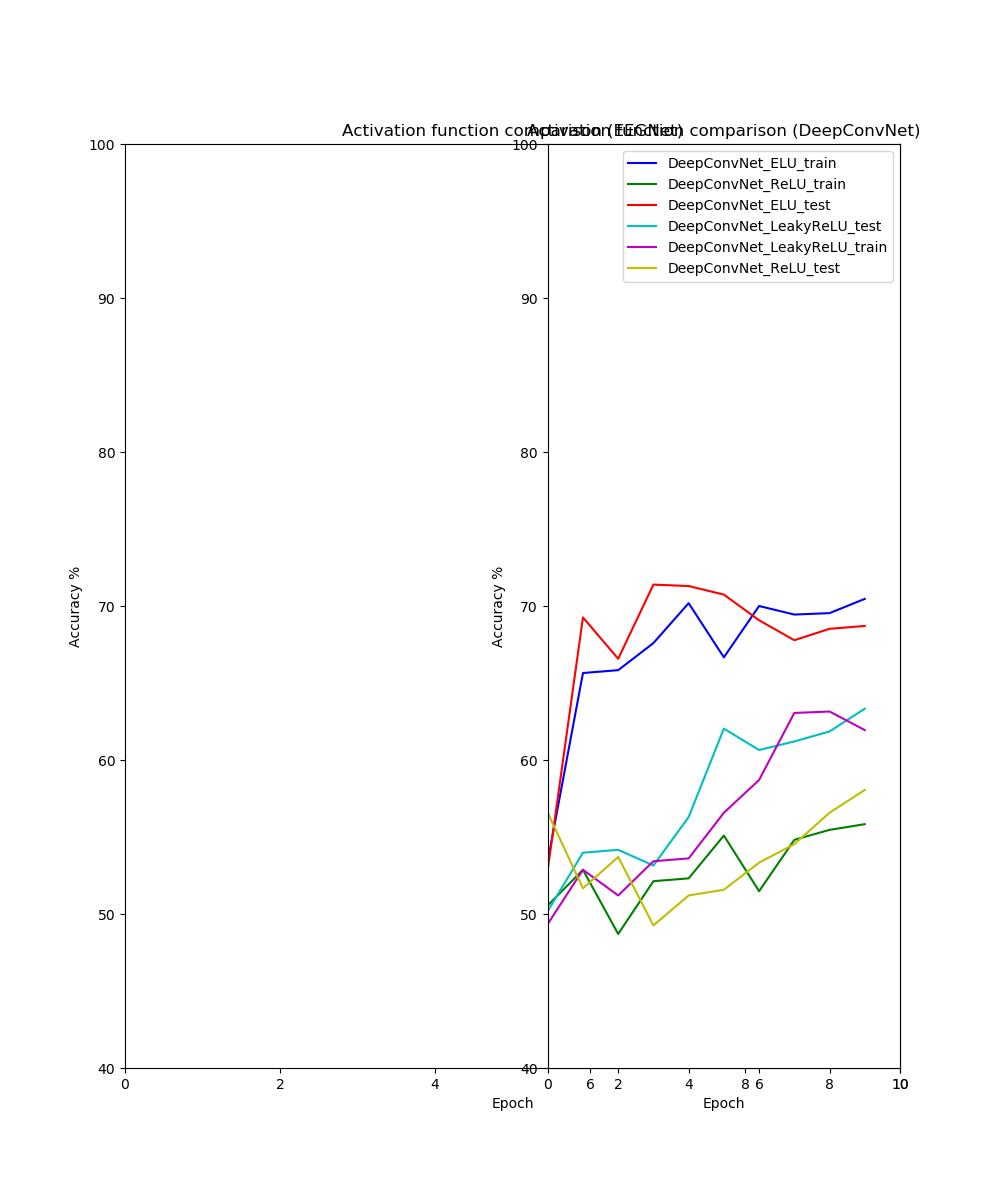
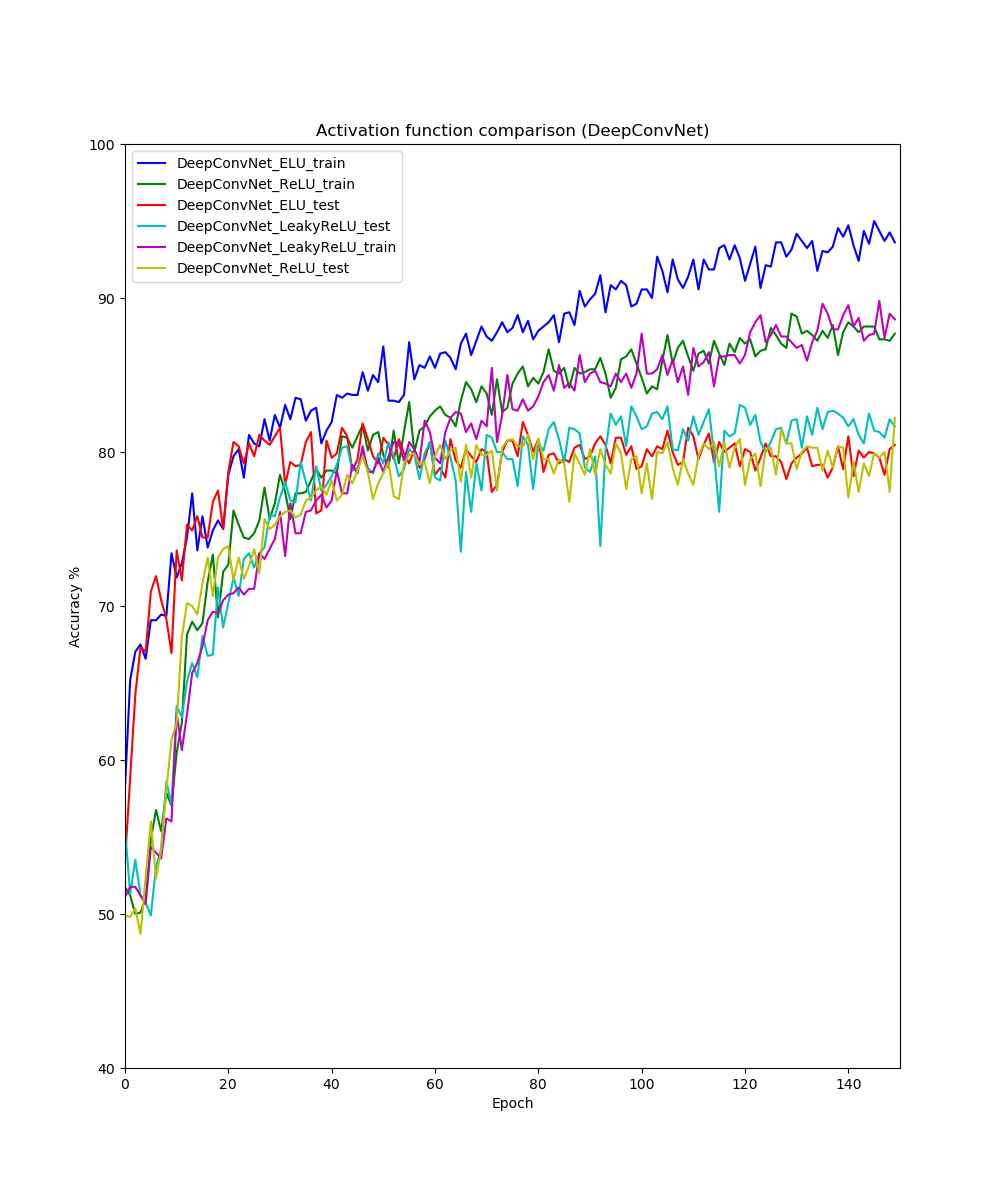
update NCTU2 all

diff --git a/NCTU2/plot.py b/NCTU2/plot.py
@@ -7,13 +7,16 @@ import os
 
 def PlotComp(path, model_name,epoch,figure):
     color = ['b-','g-','r-','c-','m-','y-']
+    #figure = plt.axes()
     for dirPath, dirNames, fileNames in os.walk(path):
         os.chdir(path)
         index_color = 0
         for file in fileNames:
             if file == '.DS_Store':
                 continue
-            with open(file, newline='') as csvFile:
+            if '.png' in file:
+                continue
+            with open(file, encoding="utf8", errors='ignore', newline='') as csvFile:
                 #lines = len(open(file) .readlines()) 
                 label = file.replace('.csv','')
                 data = np.zeros((epoch,2))
@@ -35,19 +38,3 @@ def PlotComp(path, model_name,epoch,figure):
         plt.legend()
 
 
-PlotComp('./EEGNet', 'EEGNet',10)
-
-fig1 = plt.figure(figsize=(10,12))
-os.chdir(Criteria['current_path'])
-model_name = Criteria['model'][0]
-PlotComp(path = './'+ model_name, model_name = model_name, epoch = Criteria['Epochs'],figure = fig1)
-#fig1.savefig(model_name + '.png')
-
-
-fig2 = plt.figure(figsize=(10,12))
-os.chdir(Criteria['current_path'])
-model_name = Criteria['model'][1]
-plot.PlotComp(path = './'+ model_name, model_name = model_name, epoch = Criteria['Epochs'],figure = fig2)
-#fig2.savefig(model_name + '.png')
-
-#plt.show()
